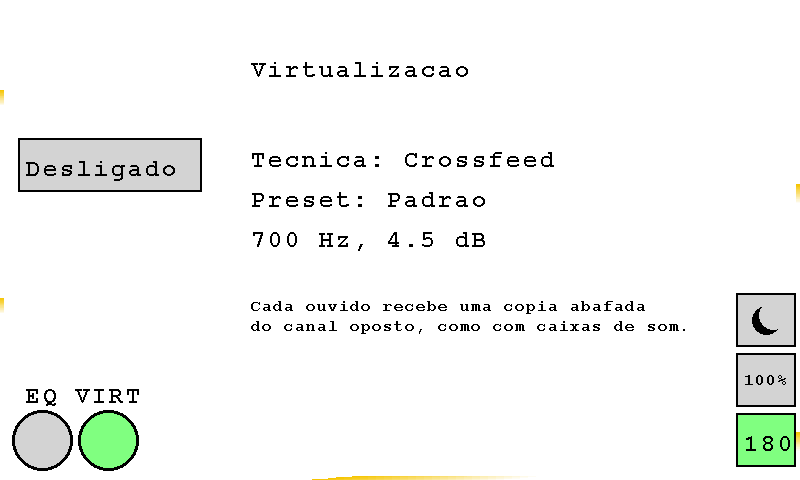
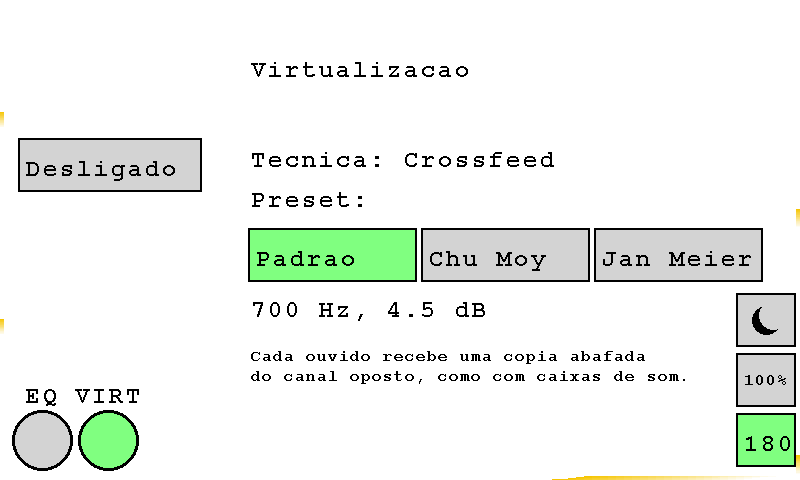
Mostra os três Presets na tela da Virtualização e salva a escolha
Três botões de Preset com exatamente um marcado, ao lado do botão da
Virtualização. O índice vai numa palavra nova da flash (EQ_BAND_COUNT + 6);
uma palavra apagada ou fora da faixa carrega o Padrão. O README ganha a
tabela dos Presets com corte, nível, origem e efeito audível, e as
capturas da tela nova, nos dois temas e nas duas orientações.

diff --git a/Application/Touchscreen/Src/user_lcd.c b/Application/Touchscreen/Src/user_lcd.c
@@ -41,14 +41,17 @@
 #define STEP_BUTTON_GAP    4
 #define GAIN_TEXT_GAP      6
 #define MOON_RADIUS        14
-#define MOON_BITE_OFFSET_X 7
-#define MOON_BITE_OFFSET_Y 5
-#define LOGO_INK_BLUE      24
-#define LOGO_YELLOW        0xFFCF00
-#define TRAIL_THICKNESS    4
-#define TRAIL_SEGMENT      8
-#define TRAIL_LENGTH       24
-#define TRAIL_SEGMENTS     (2 * (WVGA_RES_X + WVGA_RES_Y) / TRAIL_SEGMENT)
+// The widest name, Jan Meier, is 9 Font24 characters of 17 px plus the 5 px label margin.
+#define PRESET_BUTTON_WIDTH 165
+#define PRESET_BUTTON_GAP   8
+#define MOON_BITE_OFFSET_X  7
+#define MOON_BITE_OFFSET_Y  5
+#define LOGO_INK_BLUE       24
+#define LOGO_YELLOW         0xFFCF00
+#define TRAIL_THICKNESS     4
+#define TRAIL_SEGMENT       8
+#define TRAIL_LENGTH        24
+#define TRAIL_SEGMENTS      (2 * (WVGA_RES_X + WVGA_RES_Y) / TRAIL_SEGMENT)
 // Font24 leaves its top two rows blank, so the labels' ink starts just under the trail.
 #define EQ_LABEL_Y 2
 
@@ -101,6 +104,9 @@ RectangleButton virtSwitchButton = {
   .isPressed = false,
   .isActive = false,
 };
+
+// One per Preset, laid out and labelled by LCD_DisplayVirtualizerPage; exactly the selected one is active.
+RectangleButton presetButtons[CROSSFEED_PRESET_COUNT];
 
 RectangleButton saveButton = {
   .x = 20,
@@ -301,15 +307,27 @@ static void LCD_DisplayVirtualizerPage(void)
   BSP_LCD_SetTextColor(theme->foreground);
   BSP_LCD_DisplayStringAt(250, 60, (uint8_t*)"Virtualizacao", LEFT_MODE);
   BSP_LCD_DisplayStringAt(250, 150, (uint8_t*)"Tecnica: Crossfeed", LEFT_MODE);
-  sprintf(text, "Preset: %s", preset->name);
-  BSP_LCD_DisplayStringAt(250, 190, (uint8_t*)text, LEFT_MODE);
+  BSP_LCD_DisplayStringAt(250, 190, (uint8_t*)"Preset:", LEFT_MODE);
+  for(uint32_t i = 0; i < CROSSFEED_PRESET_COUNT; i++)
+  {
+    presetButtons[i].x = 250 + i * (PRESET_BUTTON_WIDTH + PRESET_BUTTON_GAP);
+    presetButtons[i].y = 230;
+    presetButtons[i].width = PRESET_BUTTON_WIDTH;
+    presetButtons[i].height = 50;
+    presetButtons[i].text = (char*)crossfeedPresets[i].name;
+    presetButtons[i].isActive = i == crossfeedPreset;
+    LCD_UpdateRectangleButton(&presetButtons[i]);
+  }
+
+  BSP_LCD_SetBackColor(theme->background);
+  BSP_LCD_SetTextColor(theme->foreground);
   int levelTenths = (int)(preset->levelDb * 10 + 0.5f);
   sprintf(text, "%d Hz, %d.%d dB", (int)preset->cutoffHz, levelTenths / 10, levelTenths % 10);
-  BSP_LCD_DisplayStringAt(250, 230, (uint8_t*)text, LEFT_MODE);
+  BSP_LCD_DisplayStringAt(250, 300, (uint8_t*)text, LEFT_MODE);
 
   BSP_LCD_SetFont(&Font16);
-  BSP_LCD_DisplayStringAt(250, 300, (uint8_t*)"Cada ouvido recebe uma copia abafada", LEFT_MODE);
-  BSP_LCD_DisplayStringAt(250, 320, (uint8_t*)"do canal oposto, como com caixas de som.", LEFT_MODE);
+  BSP_LCD_DisplayStringAt(250, 350, (uint8_t*)"Cada ouvido recebe uma copia abafada", LEFT_MODE);
+  BSP_LCD_DisplayStringAt(250, 370, (uint8_t*)"do canal oposto, como com caixas de som.", LEFT_MODE);
   BSP_LCD_SetFont(&Font24);
 }
 

diff --git a/Application/Persistence/Src/flash_persistence.c b/Application/Persistence/Src/flash_persistence.c
@@ -15,6 +15,8 @@
 #define FLASH_EQ_ENABLED_WORD (EQ_BAND_COUNT + 4)
 // Sectors saved before the Virtualization existed read 0xFFFFFFFF here, which loads as off.
 #define FLASH_VIRT_ENABLED_WORD (EQ_BAND_COUNT + 5)
+// Sectors saved before the Presets existed read 0xFFFFFFFF here, which is out of range and loads as the first Preset, Padrao.
+#define FLASH_CROSSFEED_PRESET_WORD (EQ_BAND_COUNT + 6)
 
 static volatile uint32_t* const words = (volatile uint32_t*)FLASH_USER_START_ADDR;
 
@@ -62,6 +64,7 @@ static void WriteSector(const volatile int16_t* gains, DisplaySettings display)
   HAL_FLASH_Program(FLASH_TYPEPROGRAM_WORD, FLASH_USER_START_ADDR + FLASH_DARK_WORD * 4, display.isDark);
   HAL_FLASH_Program(FLASH_TYPEPROGRAM_WORD, FLASH_USER_START_ADDR + FLASH_EQ_ENABLED_WORD * 4, eqEnabled);
   HAL_FLASH_Program(FLASH_TYPEPROGRAM_WORD, FLASH_USER_START_ADDR + FLASH_VIRT_ENABLED_WORD * 4, virtEnabled);
+  HAL_FLASH_Program(FLASH_TYPEPROGRAM_WORD, FLASH_USER_START_ADDR + FLASH_CROSSFEED_PRESET_WORD * 4, crossfeedPreset);
   HAL_FLASH_Lock();
 }
 
@@ -89,6 +92,9 @@ void FlashPersistence_RestoreModuleSwitches()
 {
   eqEnabled = SavedGainScale() == 0 || words[FLASH_EQ_ENABLED_WORD] != 0;
   virtEnabled = SavedGainScale() != 0 && words[FLASH_VIRT_ENABLED_WORD] == 1;
+  crossfeedPreset = SavedGainScale() != 0 && words[FLASH_CROSSFEED_PRESET_WORD] < crossfeedPresetCount
+                        ? (uint8_t)words[FLASH_CROSSFEED_PRESET_WORD]
+                        : 0;
 }
 
 DisplaySettings FlashPersistence_ReadDisplay()

diff --git a/Application/Touchscreen/Src/touchscreen.c b/Application/Touchscreen/Src/touchscreen.c
@@ -206,6 +206,25 @@ void Touchscreen_ButtonHandler(void)
         LCD_UpdateSwitchButton(&virtSwitchButton, virtEnabled);
         FlashPersistence_WriteSettings(CurrentDisplay());
       }
+
+      return;
+    }
+
+    for(uint32_t i = 0; i < CROSSFEED_PRESET_COUNT; i++)
+    {
+      if(touchXPosition > presetButtons[i].x && touchXPosition < presetButtons[i].x + presetButtons[i].width &&
+         touchYPosition > presetButtons[i].y && touchYPosition < presetButtons[i].y + presetButtons[i].height)
+      {
+        if(!isTapLatched)
+        {
+          isTapLatched = true;
+          crossfeedPreset = (uint8_t)i;
+          LCD_UpdateState();
+          FlashPersistence_WriteSettings(CurrentDisplay());
+        }
+
+        break;
+      }
     }
 
     return;

diff --git a/Application/Touchscreen/Inc/user_lcd.h b/Application/Touchscreen/Inc/user_lcd.h
@@ -90,6 +90,7 @@ extern CircleButtonTypeDef circleButtons[];
 extern SliderKnob sliderKnobs[];
 extern RectangleButton eqSwitchButton;
 extern RectangleButton virtSwitchButton;
+extern RectangleButton presetButtons[];
 extern RectangleButton saveButton;
 extern RectangleButton resetButton;
 extern RectangleButton undoButton;

diff --git a/README.md b/README.md
@@ -136,8 +136,8 @@ O sistema implementa:
 - **Armazenamento em Flash**: Configurações de equalização são salvas no setor 12 da flash, o primeiro setor do banco 2 (16 KB, endereço `0x08100000`). A flash fica em modo dual-bank. Assim, apagar esse setor não trava o código que roda do banco 1, e o áudio USB continua durante a gravação
 - **Restauração Automática**: Configurações são restauradas automaticamente na inicialização
 - **Marca de Formato**: A primeira palavra do setor guarda a marca `EQ31`. Os ajustes de 8 bandas salvos por versões antigas do firmware não têm essa marca e são descartados: todas as bandas começam em 0 dB
-- **Palavras do Setor**: depois da marca vêm os 31 ganhos, a rotação, o brilho, o modo escuro, a chave do Equalizador e a chave da Virtualização, uma palavra cada. Um setor gravado por um firmware mais antigo tem as palavras novas apagadas (`0xFFFFFFFF`), e cada uma delas mantém o comportamento antigo: tela sem rotação, brilho máximo, tema claro, Equalizador ligado e Virtualização desligada
-- **Salvamento no Toque**: a rotação, o brilho, o modo escuro e as chaves do Equalizador e da Virtualização são salvos assim que tocados. Esse salvamento regrava os últimos ganhos salvos, nunca os ganhos na tela, então só o botão "Salvar" grava edições de ganho
+- **Palavras do Setor**: depois da marca vêm os 31 ganhos, a rotação, o brilho, o modo escuro, a chave do Equalizador, a chave da Virtualização e o Preset do Crossfeed (o índice na tabela `crossfeedPresets`), uma palavra cada. Um setor gravado por um firmware mais antigo tem as palavras novas apagadas (`0xFFFFFFFF`), e cada uma delas mantém o comportamento antigo: tela sem rotação, brilho máximo, tema claro, Equalizador ligado, Virtualização desligada e Preset Padrão. Uma palavra de Preset fora da faixa também carrega o Padrão
+- **Salvamento no Toque**: a rotação, o brilho, o modo escuro e as chaves do Equalizador e da Virtualização e o Preset são salvos assim que tocados. Esse salvamento regrava os últimos ganhos salvos, nunca os ganhos na tela, então só o botão "Salvar" grava edições de ganho
 
 ## Como Compilar e Executar
 
@@ -259,6 +259,7 @@ Os casos da Virtualização leem a tabela `crossfeedPresets` do próprio DSP e r
 - Um impulso só na esquerda aparece na direita filtrado por um passa-baixas. Em 20 Hz, o caminho cruzado fica abaixo do direto pelo nível do Preset (± 0,1 dB). Ele cai 3 dB a até 5% do corte e pelo menos 17 dB uma década acima, onde o caminho direto volta a até 1 dB de 0 dB.
 - Ruído estéreo com os canais trocados sai com os canais trocados, bit a bit.
 - Um seno mono em fundo de escala, na frequência em que o ganho mono é maior, sai a até 1 dB do nível de entrada e não se afasta da senoide mais do que 1% do fundo de escala.
+- Trocar de Preset entre dois pacotes, com ruído tocando, leva a saída à mesma de uma execução que começou no Preset novo, a até 2 LSB, um quarto de segundo depois.
 - Desligar e religar a Virtualização no pico de um tom de 250 Hz só na esquerda não produz um salto maior que o do próprio sinal. Depois de religada, a saída é igual à de uma execução que nunca desligou.
 
 ### Formatar e Analisar o Código
@@ -314,13 +315,20 @@ tools/lint.py tidy
 
 4. **Ligar a Virtualização**:
    - Toque no botão "VIRT", ao lado do "EQ", para abrir a tela da Virtualização. Abrir uma das telas fecha a outra, e tocar de novo no botão aberto volta à tela inicial
-   - A tela mostra a Técnica (Crossfeed) e o Preset (Padrão: 700 Hz, 4,5 dB)
+   - A tela mostra a Técnica (Crossfeed) e três botões de Preset: Padrão, Chu Moy e Jan Meier. Exatamente um fica verde, e o corte e o nível dele aparecem abaixo. Tocar em outro troca o Preset no pacote seguinte, com a música tocando e sem transição gradual, e salva a escolha na flash. Uma placa nova começa no Padrão
    - O botão no alto da coluna da esquerda liga e desliga a Virtualização. Ligada, o som sai de dentro da cabeça e passa a vir da frente; desligada, cada canal sai só no seu lado. A troca leva 1 ms e não faz clique. A escolha é salva na flash no toque, e uma placa nova começa com a Virtualização desligada
 
    | | Ligada | Desligada |
    |---|---|---|
    | Tema claro | ![Virtualização ligada, tema claro, tela girada em 180°](docs/capturas/virt-claro-ligado-180.png) | ![Virtualização desligada, tema claro, tela girada em 180°](docs/capturas/virt-claro-desligado-180.png) |
-   | Tema escuro | ![Virtualização ligada, tema escuro](docs/capturas/virt-escuro-ligado.png) | ![Virtualização desligada, tema escuro](docs/capturas/virt-escuro-desligado.png) |
+   | Tema escuro | ![Virtualização ligada, tema escuro, tela girada em 180°](docs/capturas/virt-escuro-ligado-180.png) | ![Virtualização desligada, tema escuro, tela girada em 180°](docs/capturas/virt-escuro-desligado-180.png) |
+
+   Os três Presets, nos dois temas e nas duas orientações da tela (o botão "180" verde indica a tela girada):
+
+   | | Tela normal | Tela girada em 180° |
+   |---|---|---|
+   | Tema claro | ![Preset Padrão, tema claro](docs/capturas/virt-preset-padrao-claro.png) | ![Preset Chu Moy, tema claro, tela girada em 180°](docs/capturas/virt-preset-chu-moy-claro-180.png) |
+   | Tema escuro | ![Preset Chu Moy, tema escuro](docs/capturas/virt-preset-chu-moy-escuro.png) | ![Preset Jan Meier, tema escuro, tela girada em 180°](docs/capturas/virt-preset-jan-meier-escuro-180.png) |
 
    ![Tela inicial com os botões "EQ" e "VIRT", tema escuro](docs/capturas/inicio-escuro.png)
 
@@ -349,7 +357,15 @@ O sistema utiliza filtros biquad do tipo "peaking equalizer" para cada banda de 
 
 No fone, cada ouvido escuta só o seu canal, e o som parece vir de dentro da cabeça. Com caixas de som, cada ouvido escuta também a caixa do outro lado, mais baixa nos graves e quase nada nos agudos, porque a cabeça faz sombra para as frequências altas. Benjamin Bauer propôs em 1961 imitar isso no fone com um circuito que leva a cada ouvido uma cópia filtrada do canal oposto. Essa Técnica é o Crossfeed. O bs2b (Bauer stereophonic-to-binaural DSP), de Boris Mikhaylov, é a versão digital mais usada dessa ideia, e a Virtualização segue o seu projeto.
 
-O canal oposto passa por um passa-baixas de primeira ordem no corte do Preset e chega ao ouvido o nível do Preset abaixo do canal direto nos graves. O canal do mesmo lado passa por um realce de agudos de primeira ordem, que devolve aos agudos o volume que o canal cedeu ao lado oposto nos graves. Um Preset é o par de corte e nível. Hoje só existe o Padrão do bs2b, com 700 Hz e 4,5 dB.
+O canal oposto passa por um passa-baixas de primeira ordem no corte do Preset e chega ao ouvido o nível do Preset abaixo do canal direto nos graves. O canal do mesmo lado passa por um realce de agudos de primeira ordem, que devolve aos agudos o volume que o canal cedeu ao lado oposto nos graves. Um Preset é o par de corte e nível. Existem três, os mesmos que o bs2b publica:
+
+| Preset | Corte | Nível | Origem | Efeito audível |
+|---|---|---|---|---|
+| Padrão | 700 Hz | 4,5 dB | Padrão do bs2b | O mais leve dos três. Um instrumento só na esquerda fica 4,1 dB mais baixo nos graves do ouvido esquerdo e chega ao direito 8,6 dB abaixo do nível original. Tira o som de dentro da cabeça sem mudar muito o palco |
+| Chu Moy | 700 Hz | 6,0 dB | Circuito de crossfeed de Chu Moy para amplificadores de fone, que o bs2b chama de C.Moy | Mesmo corte, com mais graves cruzados: 3,5 dB abaixo do original no ouvido do mesmo lado e 9,5 dB abaixo no oposto. Mistura os lados um pouco mais que o Padrão |
+| Jan Meier | 650 Hz | 9,5 dB | Crossfeed de Jan Meier, dos amplificadores Meier Audio, que o bs2b chama de J.Meier | O de mistura mais forte: 2,5 dB abaixo do original no ouvido do mesmo lado e 12,0 dB no oposto. Os dois ouvidos ficam mais parecidos nos graves, com o corte um pouco mais baixo |
+
+A coluna "Efeito audível" dá, para um instrumento só em um canal, o nível dos graves nos dois ouvidos em relação ao sinal sem a Virtualização. É o que a fórmula abaixo prevê, e o `tools/dsp_test.py` confere o nível e o corte de cada Preset. Como o canal direto e o cruzado somam 1, um sinal mono sai igual nos três Presets em todas as frequências, e trocar de Preset só muda o que difere entre os canais. O gosto de cada um ainda depende de ouvir na placa.
 
 O bs2b escolhe o corte e o ganho do realce de agudos por fórmulas próprias e normaliza o volume nos graves. Com essa escolha, um sinal mono sai 1,8 dB mais baixo nos agudos com o Padrão (medido pelo `tools/dsp_test.py` com o bs2b copiado ao pé da letra), e o ADR 0001 pede o mesmo volume mono com o Módulo ligado ou desligado. Por isso a Virtualização usa o mesmo filtro de realce do bs2b com o corte e o ganho do passa-baixas. Assim o realce é o complemento exato do passa-baixas, e o canal direto e o cruzado somam 1 em todas as frequências:
 
@@ -361,7 +377,7 @@ direita  = direita  - G · passa_baixas(direita - esquerda)
 
 As duas saídas usam um único passa-baixas, aplicado à diferença entre os canais. Um sinal mono não tem diferença e sai igual, bit a bit, e um sinal com os canais trocados sai com os canais trocados, também bit a bit. A sonda mede 3.233 ciclos por pacote para a Virtualização, 1,5% do orçamento. A conta inclui a cópia do sinal sem processamento que a chave da Cadeia usa.
 
-A Técnica fica num campo próprio (`virtTechnique`), para que os Alto-falantes virtuais entrem depois como outra Técnica. O Preset é um índice na tabela `crossfeedPresets`. Trocar o índice com a música tocando troca os coeficientes no pacote seguinte.
+A Técnica fica num campo próprio (`virtTechnique`), para que os Alto-falantes virtuais entrem depois como outra Técnica. O Preset é um índice na tabela `crossfeedPresets`. Trocar o índice com a música tocando troca os coeficientes no pacote seguinte, sem transição gradual e sem apagar o estado do filtro.
 
 ### Arquitetura de Processamento
 
